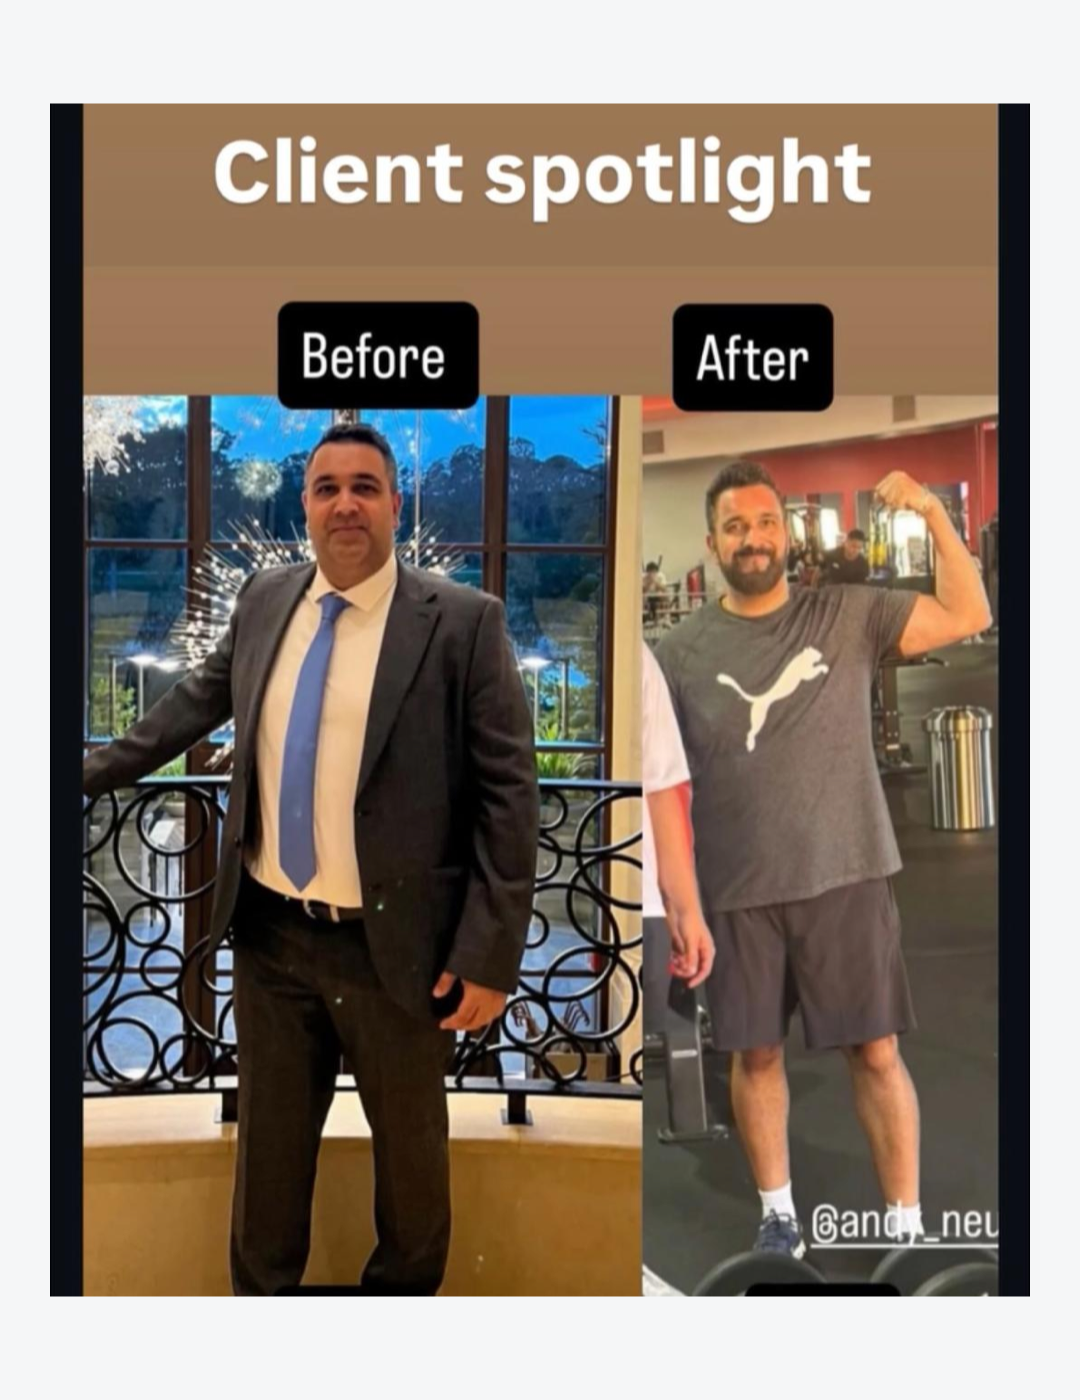
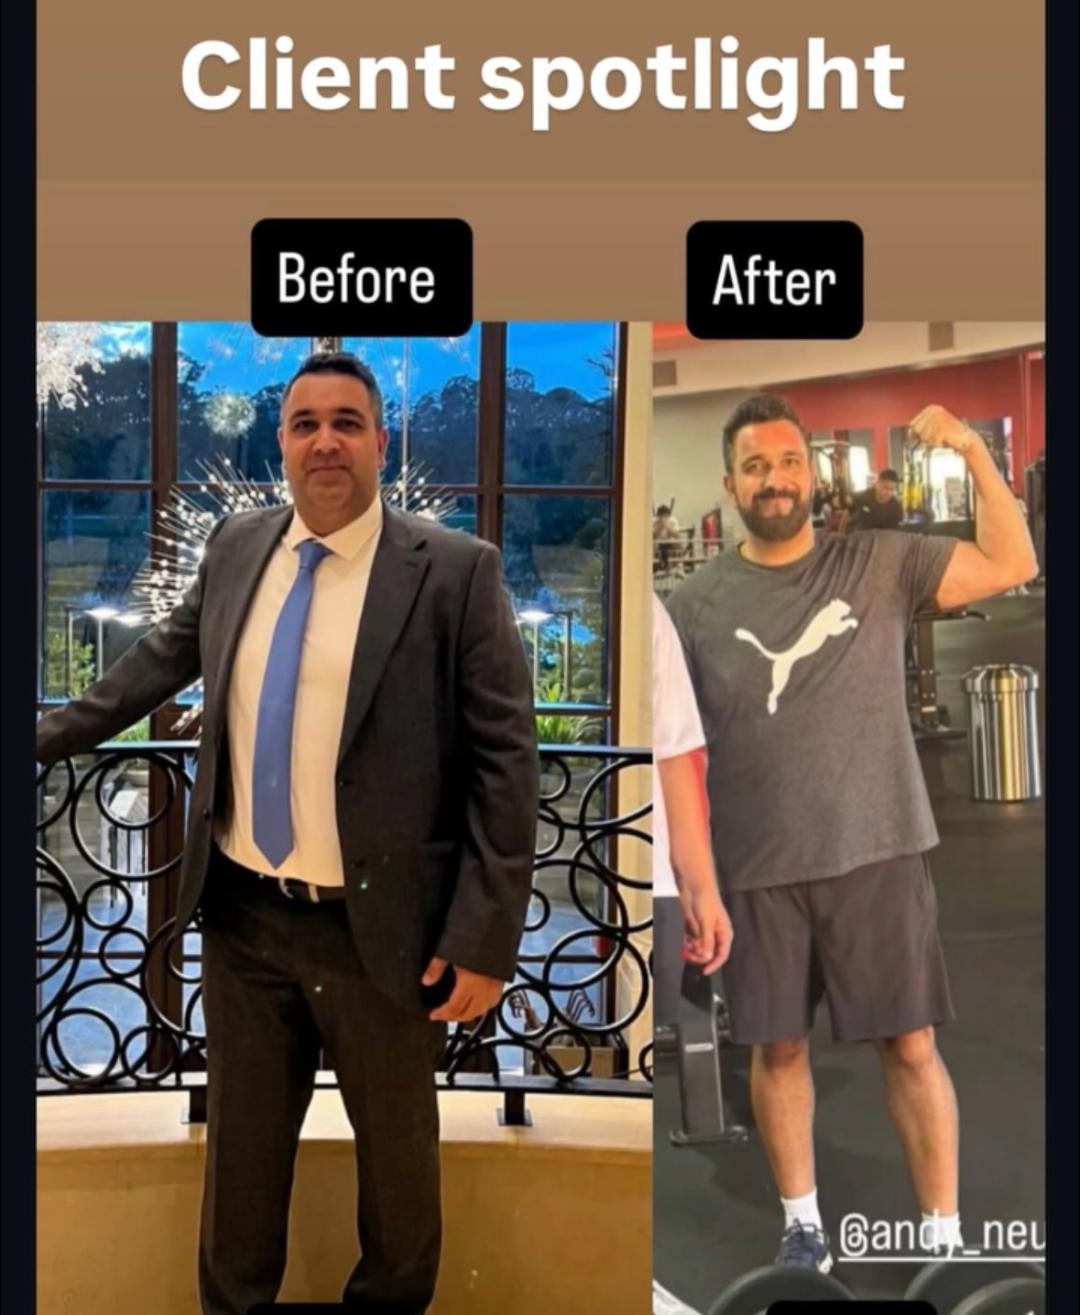
Restore original transformation images and tune framing

diff --git a/index.html b/index.html
@@ -277,7 +277,7 @@
 
           <div class="transformation-grid">
             <article class="transformation-card" data-reveal>
-              <figure class="media-shell transformation-media" data-media-frame>
+              <figure class="media-shell transformation-media transformation-media--first" data-media-frame>
                 <img
                   src="https://brandonmo-ai.github.io/assets/transformations/transformation-1.png"
                   alt="Client transformation showing a before-and-after physique change"
@@ -300,7 +300,7 @@
             </article>
 
             <article class="transformation-card" data-reveal>
-              <figure class="media-shell transformation-media" data-media-frame>
+              <figure class="media-shell transformation-media transformation-media--second" data-media-frame>
                 <img
                   src="https://brandonmo-ai.github.io/assets/transformations/transformation-2.png"
                   alt="Client transformation showing a before-and-after gym progress photo"
@@ -323,7 +323,7 @@
             </article>
 
             <article class="transformation-card" data-reveal>
-              <figure class="media-shell transformation-media" data-media-frame>
+              <figure class="media-shell transformation-media transformation-media--third" data-media-frame>
                 <img
                   src="https://brandonmo-ai.github.io/assets/transformations/transformation-3.png"
                   alt="Client spotlight before-and-after transformation image"

diff --git a/styles.css b/styles.css
@@ -695,7 +695,19 @@ summary {
   width: 100%;
   height: 100%;
   object-fit: contain;
-  object-position: center top;
+  object-position: center center;
+}
+
+.transformation-media--first img {
+  object-position: center 18%;
+}
+
+.transformation-media--second img {
+  object-position: center 28%;
+}
+
+.transformation-media--third img {
+  object-position: center 18%;
 }
 
 .transformation-caption {
